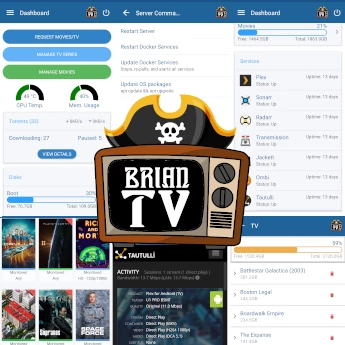
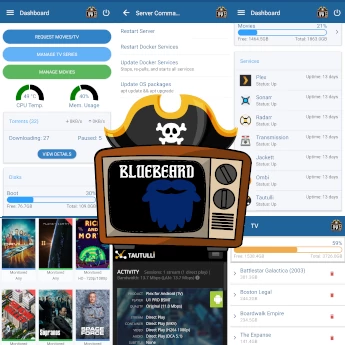
added mui theme creator, changed to github

Changed region(s): [[0.2609, 0.2899, 0.7536, 0.7536], [0.3768, 0.3188, 0.4058, 0.3478]]

diff --git a/src/pages/resume/print.js b/src/pages/resume/print.js
@@ -1,0 +1,193 @@
+import React from "react"
+import {
+  makeStyles,
+  CssBaseline,
+  Container,
+  Typography,
+  Grid,
+  List,
+  ListItem,
+  ListItemIcon,
+  ListItemText,
+  ThemeProvider,
+  createMuiTheme,
+} from "@material-ui/core"
+import SEO from "src/components/seo"
+import PhoneIcon from "@material-ui/icons/Phone"
+import EmailIcon from "@material-ui/icons/Email"
+import LocationIcon from "@material-ui/icons/LocationOn"
+import WebsiteIcon from "@material-ui/icons/Language"
+import FrameworkItem from "src/components/FrameworkItem"
+import * as workExperience from "src/data/workExperience"
+
+const consoleFontFamily =
+  '"Consolas", "Monaco", "Lucidia Console", "Liberation Mono", "DejaVu Sans Mono", "Bitstream Vera Sans Mono", "Courier New"'
+
+const theme = createMuiTheme({
+  typography: {
+    h1: {
+      fontFamily: consoleFontFamily,
+      fontSize: "2.5rem",
+    },
+    h2: { fontFamily: consoleFontFamily, fontSize: "1.5rem" },
+    h3: {
+      fontFamily: consoleFontFamily,
+      fontSize: "0.9rem",
+      textTransform: "uppercase",
+      borderBottom: "2px solid",
+      letterSpacing: "0.1rem",
+      fontWeight: 700,
+      marginTop: 16,
+      marginBottom: 8,
+    },
+    subtitle1: {
+      fontWeight: 700,
+      lineHeight: "normal",
+    },
+    overline: {
+      lineHeight: "normal",
+    },
+    body2: {
+      fontSize: "0.8rem",
+    },
+    // h2: { ...consoleFontFamily },
+    // h3: { ...consoleFontFamily },
+    // h4: { ...consoleFontFamily },
+    // h5: { ...consoleFontFamily },
+    // h6: { ...consoleFontFamily },
+    // subtitle1: { ...consoleFontFamily },
+    // subtitle2: { ...consoleFontFamily },
+    // button: { ...consoleFontFamily },
+  },
+})
+
+const useStyles = makeStyles({})
+
+const skills = [
+  "python",
+  "django",
+  "javascript",
+  "typescript",
+  "react",
+  "reactnative",
+  "redux",
+]
+
+const PrintResume = () => {
+  const classes = useStyles()
+  return (
+    <ThemeProvider theme={theme}>
+      <SEO title="Printable Résumé" />
+      <CssBaseline />
+      <Container maxWidth="lg">
+        <Typography variant="h1" align="center">
+          Brian Reynolds
+        </Typography>
+        <Typography variant="h2" align="center" paragraph>
+          Software / Web Developer
+        </Typography>
+        <Grid container>
+          <Grid item xs={3}>
+            <Typography variant="h3">Info</Typography>
+            <List style={{ paddingTop: 0 }}>
+              <ListItem dense disableGutters>
+                <ListItemIcon style={{ minWidth: 32 }}>
+                  <WebsiteIcon />
+                </ListItemIcon>
+                <ListItemText>
+                  <a
+                    href="https://bareynol.github.io/"
+                    style={{ color: "#00aa00", textDecoration: "none" }}
+                  >{`bareynol.github.io`}</a>
+                </ListItemText>
+              </ListItem>
+              <ListItem dense disableGutters>
+                <ListItemIcon style={{ minWidth: 32 }}>
+                  <PhoneIcon />
+                </ListItemIcon>
+                <ListItemText>{`(519)-807-9096`}</ListItemText>
+              </ListItem>
+              <ListItem dense disableGutters>
+                <ListItemIcon style={{ minWidth: 32 }}>
+                  <EmailIcon />
+                </ListItemIcon>
+                <ListItemText>{`brireyn@gmail.com`}</ListItemText>
+              </ListItem>
+              <ListItem dense disableGutters>
+                <ListItemIcon style={{ minWidth: 32 }}>
+                  <LocationIcon />
+                </ListItemIcon>
+                <ListItemText>{`Ontario, Canada`}</ListItemText>
+              </ListItem>
+            </List>
+            <Typography variant="h3">Skills / Languages</Typography>
+            <List style={{ paddingTop: 0 }}>
+              {skills.map(s => (
+                <FrameworkItem key={s} variant={s} />
+              ))}
+            </List>
+          </Grid>
+          <Grid item xs={9} style={{ paddingLeft: theme.spacing(5) }}>
+            <Typography variant="h3">Experience</Typography>
+            {[
+              workExperience.growratio,
+              workExperience.zanbato,
+              workExperience.ndimension,
+            ].map(job => (
+              <div key={job.company.name}>
+                <Grid container justify="space-between" alignItems="baseline">
+                  <Grid item>
+                    <Typography variant="subtitle1" display="inline">
+                      {job.role}
+                      {", "}
+                    </Typography>
+                    <Typography variant="subtitle2" display="inline">
+                      {job.company.name}
+                    </Typography>
+                  </Grid>
+                  <Grid item>
+                    <Typography variant="overline" color="textSecondary">
+                      {job.company.location}
+                    </Typography>
+                  </Grid>
+                </Grid>
+                {/* <Typography variant="subtitle2">{job.company.name}</Typography> */}
+                <Typography variant="caption" color="textSecondary">
+                  {job.dates}
+                </Typography>
+                <div>
+                  <ul style={{ marginTop: 4 }}>
+                    {job.responsibilitiesShort.map(r =>
+                      r.specifics.map((spec, index) => (
+                        <li key={`${r.title}-${index}`}>
+                          <Typography variant="body2">{spec}</Typography>
+                        </li>
+                      ))
+                    )}
+                  </ul>
+                </div>
+              </div>
+            ))}
+            <Typography variant="h3">Education</Typography>
+            <Grid container justify="space-between">
+              <Grid item>
+                <Typography variant="subtitle1">{`Bachelor of Computer Science`}</Typography>
+              </Grid>
+              <Grid item>
+                <Typography variant="overline" color="textSecondary">
+                  {`Waterloo`}
+                </Typography>
+              </Grid>
+            </Grid>
+            <Typography variant="subtitle2">{`University of Waterloo`}</Typography>
+            <Typography variant="caption" color="textSecondary">
+              {`August 2017`}
+            </Typography>
+          </Grid>
+        </Grid>
+      </Container>
+    </ThemeProvider>
+  )
+}
+
+export default PrintResume

diff --git a/src/data/projects.js b/src/data/projects.js
@@ -1,10 +1,20 @@
+import muiThemeCreatorLogo from "src/images/mui_theme_creator_logo.webp"
 import briantvOverview from "src/images/briantv_overview.webp"
 import mediaServerOverview from "src/images/media-server_overview.webp"
 
 export default [
   {
-    title: "BrianTV",
-    url: "https://gitlab.com/bareynol/briantv-app",
+    title: "Material-UI Theme Creator",
+    demo: "https://bareynol.github.io/mui-theme-creator/",
+    url: "https://github.com/bareynol/mui-theme-creator",
+    description:
+      "Material-UI Theme Creator provides an interface to help create a Material-UI ThemeOptions object.",
+    image: muiThemeCreatorLogo,
+    frameworks: ["react", "typescript", "materialui", "redux"],
+  },
+  {
+    title: "Bluebeard",
+    url: "https://github.com/bareynol/bluebeard",
     description:
       "React-Native app to integrate with a Plex Server stack and provide easy access to frequently used services and commands and stats",
     image: briantvOverview,
@@ -12,25 +22,25 @@ export default [
   },
   {
     title: "Home Media Server Stack",
-    url: "https://gitlab.com/bareynol/home-media-server",
+    url: "https://github.com/bareynol/home-media-server",
     description:
       "Plex Media Server + Services to handle content management. Includes a web server that exposes API for server stats and commands. Integrates with BrianTV",
     image: mediaServerOverview,
     frameworks: ["nodejs", "docker"],
   },
-  {
-    title: "The Cookbook",
-    url: null,
-    description:
-      "MEAN stack web server that stores recipes and presents them in an easy to read format. Includes tools to scrape content from recipe websites.",
-    frameworks: [
-      "nodejs",
-      "react",
-      "typescript",
-      "materialui",
-      "redux",
-      "mongodb",
-    ],
-    underConstruction: true,
-  },
+  // {
+  //   title: "The Cookbook",
+  //   url: null,
+  //   description:
+  //     "MEAN stack web server that stores recipes and presents them in an easy to read format. Includes tools to scrape content from recipe websites.",
+  //   frameworks: [
+  //     "nodejs",
+  //     "react",
+  //     "typescript",
+  //     "materialui",
+  //     "redux",
+  //     "mongodb",
+  //   ],
+  //   underConstruction: true,
+  // },
 ]

diff --git a/src/pages/about.js b/src/pages/about.js
@@ -61,14 +61,14 @@ const content = [
     id: "My_dev_stack",
     body: (
       <>
-        <Typography paragraph>
+        {/* <Typography paragraph>
           {`Everyone's got a dev stack they're most experienced with
           or prefer to work in right? I always enjoy finding new ways
           of building things, but here are my most experienced stacks
           and favourite goto's`}
-        </Typography>
+        </Typography> */}
 
-        <Typography variant="subtitle1">Developer Environment</Typography>
+        {/* <Typography variant="subtitle1">Developer Environment</Typography>
         <div style={{ paddingLeft: 16, marginBottom: 32 }}>
           <FrameworkList title="IDE" frameworks={["vscode"]} link indent />
           <FrameworkList
@@ -97,7 +97,7 @@ const content = [
             Storybook is great for developing UI components in isolation while visually testing various
             possible inputs for the component, and helps with setting up automated frontend tests`}
           </Typography>
-        </div>
+        </div> */}
 
         <Typography variant="subtitle1">Web Frontend</Typography>
         <div style={{ paddingLeft: 16, marginBottom: 32 }}>

diff --git a/src/components/ProjectCard.jsx b/src/components/ProjectCard.jsx
@@ -47,7 +47,15 @@ const useStyles = makeStyles(theme => ({
 }))
 
 function ProjectCard({
-  project: { title, url, description, frameworks, image, underConstruction },
+  project: {
+    title,
+    url,
+    demo,
+    description,
+    frameworks,
+    image,
+    underConstruction,
+  },
 }) {
   const classes = useStyles()
   return (
@@ -109,12 +117,21 @@ function ProjectCard({
             style={{
               flexGrow: 1,
               alignItems: "flex-end",
-              justifyContent: "flex-end",
+              justifyContent: demo ? "space-between" : "flex-end",
             }}
           >
-            {/* <Button size="small" color="primary">
-              Details
-            </Button> */}
+            {demo && (
+              <Button
+                size="small"
+                color="primary"
+                href={demo}
+                target="_blank"
+                rel="noreferrer"
+              >
+                View Demo
+              </Button>
+            )}
+
             <Button
               size="small"
               color="secondary"

diff --git a/src/components/Header.js b/src/components/Header.js
@@ -4,7 +4,7 @@ import Toolbar from "@material-ui/core/Toolbar"
 import Button from "@material-ui/core/Button"
 import Typography from "@material-ui/core/Typography"
 import Link from "@material-ui/core/Link"
-import Gitlab from "mdi-material-ui/Gitlab"
+import GitHubIcon from "@material-ui/icons/GitHub"
 import { Link as GatsbyLink } from "gatsby"
 
 const useStyles = makeStyles(theme => ({
@@ -121,14 +121,15 @@ function Titlebar(props) {
         <Button
           color="primary"
           size="small"
-          endIcon={<Gitlab fontSize="small" className={classes.hideSmall} />}
+          endIcon={
+            <GitHubIcon fontSize="small" className={classes.hideSmall} />
+          }
           style={{ flex: 1 }}
-          href="https://gitlab.com/users/bareynol/projects"
+          href="https://github.com/bareynol"
           target="_blank"
           rel="noreferrer"
         >
-          <span className={classes.hideSmall}>{`View`}&nbsp; </span>
-          {`My Gitlab`}
+          Github
         </Button>
       </Toolbar>
     </>

diff --git a/src/components/Layout.js b/src/components/Layout.js
@@ -21,7 +21,7 @@ import {
   IconButton,
 } from "@material-ui/core"
 import LinkedInIcon from "@material-ui/icons/LinkedIn"
-import GitlabIcon from "mdi-material-ui/Gitlab"
+import GitHubIcon from "@material-ui/icons/GitHub"
 import theme from "src/theme"
 
 const useStyles = makeStyles({
@@ -93,12 +93,12 @@ const Footer = () => {
             </IconButton>
             <IconButton
               color="primary"
-              href="https://gitlab.com/users/bareynol/projects"
+              href="https://github.com/bareynol"
               target="_blank"
               rel="noreferrer"
               aria-label="View Gitlab of Brian Reynolds"
             >
-              <GitlabIcon />
+              <GitHubIcon />
             </IconButton>
           </div>
           <Typography variant="subtitle1" align="center" gutterBottom>

diff --git a/src/data/workExperience.js b/src/data/workExperience.js
@@ -157,7 +157,8 @@ export const ndimension = {
       title: "Analysis",
       specifics: [
         "Develop tool to analyse Intrusion Detection System (IDS) log files and create human-readable reports (Python)",
-        "Develop scheduling tool for the above to automatically generate reports for clients and handle concurrent processing of multiple large datasets (Python/Bash)",
+        "Develop scheduling tool for the above to automatically generate reports for clients",
+        "Handle concurrent processing of multiple large datasets (Python/Bash)",
       ],
     },
     {
